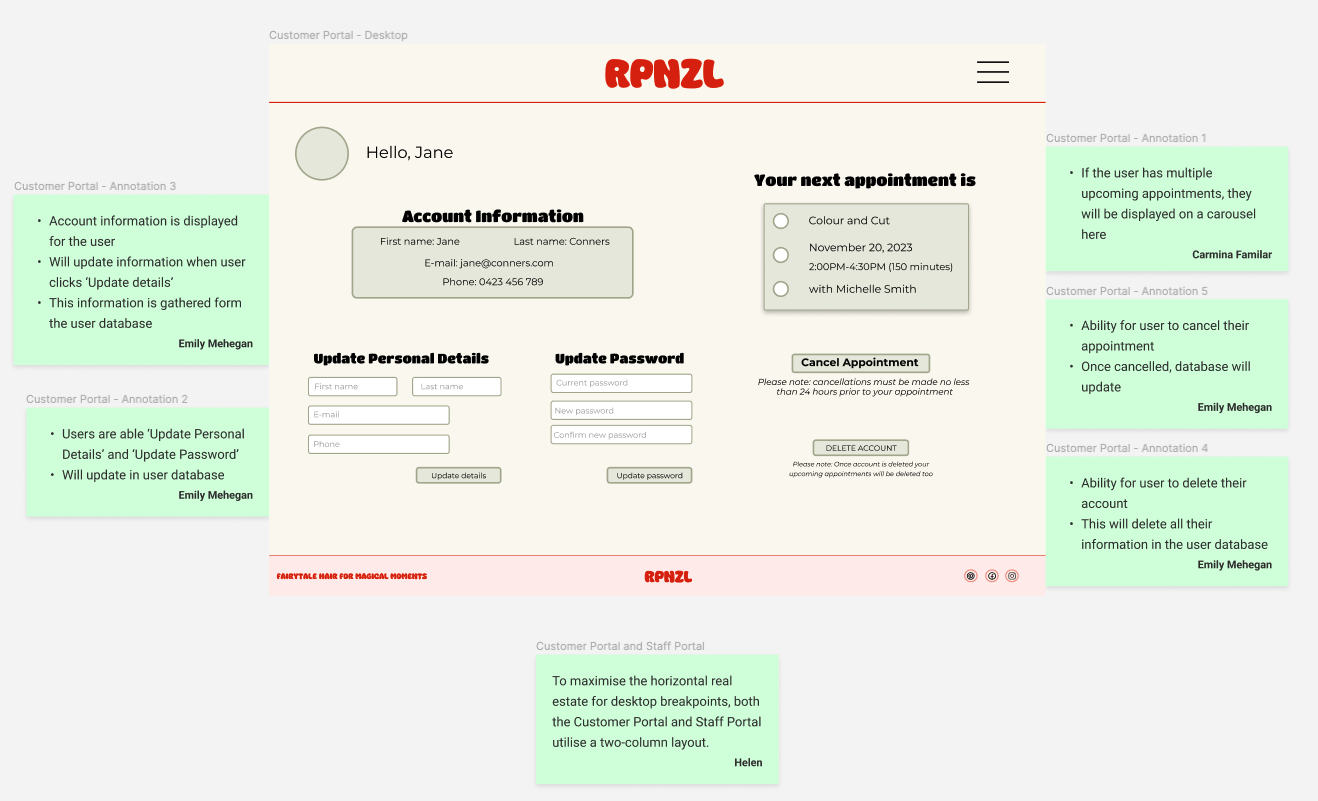
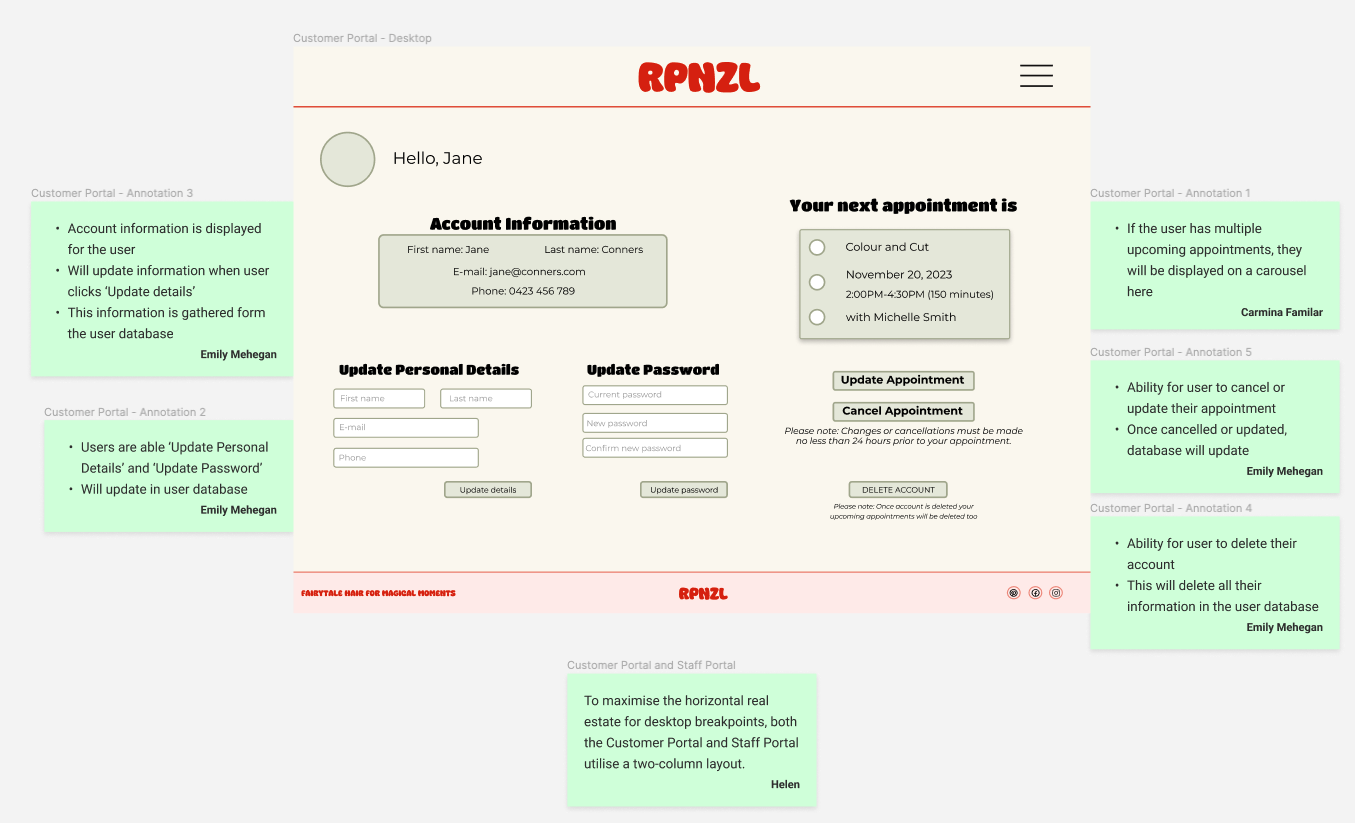
feat: figma link added, screenshot updates added

diff --git a/README.md b/README.md
@@ -155,6 +155,9 @@ Please open image in a new tab for better clarity.
 - Initially, the hairdressers could sign up for their own account. However, we realised there is nothing stopping the average person from making an account. Therefore, we changed it so only the salon manager can make a hairdresser account.
 
 # R5 Wireframes
+
+[Figma Link](https://www.figma.com/file/bYxlYHjWs7hUZ7zzUOx1P3/RPNZL?type=design&node-id=1%3A13&mode=design&t=BYAt8CUQpq7hQ34U-1)
+
 ### <b><u>Process</b></u>
 - We initiated the design process by creating low-fidelity wireframes to visualize potential layouts for the website pages. Following the conceptualization phase, we had a meeting to collaboratively evaluate and select the most promising wireframe ideas for each page, arriving on the final layout.
 
